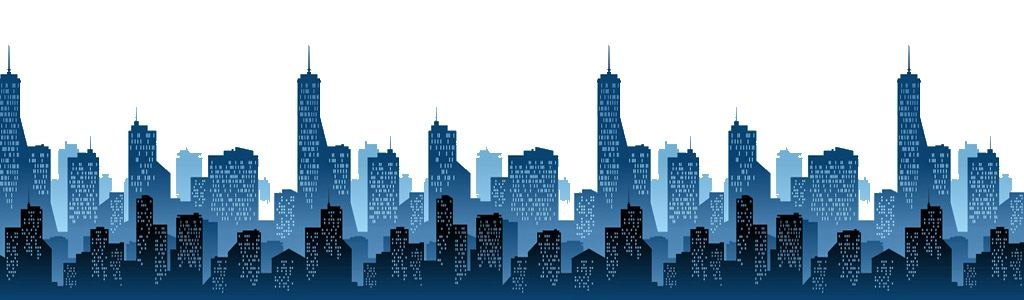
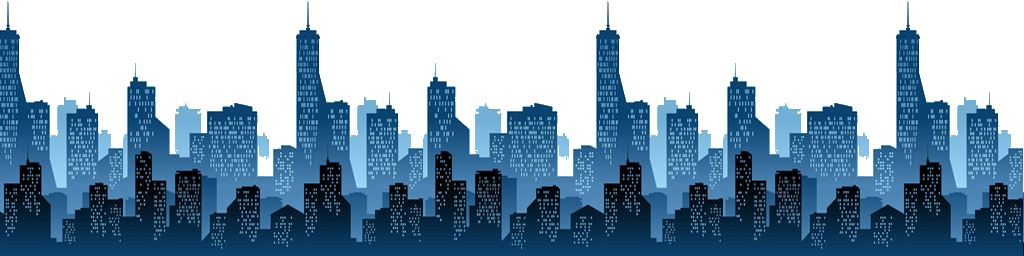
Automated Commit

Changed region(s): [[0.0, 0.0938, 1.0, 0.9688]]

diff --git a/taxi/scripts/Taxi.js b/taxi/scripts/Taxi.js
@@ -139,7 +139,8 @@
 						mipmaps : true,
 						onload : function (texture) {
 							city = Draw2DSprite.create({
-							y : graphicsDevice.height - 300,
+							x : 512,
+							y : graphicsDevice.height,
 							texture : texture						
 							});
 						}
